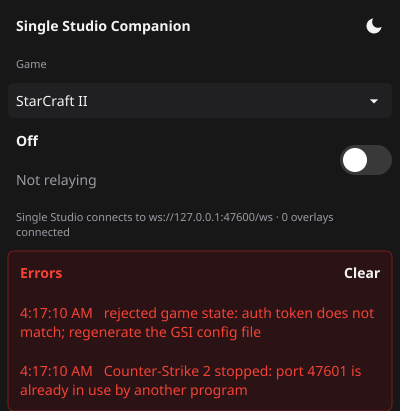
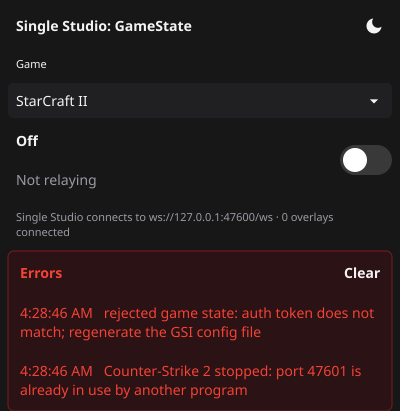
Title the window "Single Studio: GameState"
Claude-Session: https://claude.ai/code/session_01MMxyDdaYfmNBHQgFyDhkwf

diff --git a/internal/ui/panel.go b/internal/ui/panel.go
@@ -20,6 +20,8 @@ import (
 )
 
 const (
+	// Title heads the window and its title bar.
+	Title = "Single Studio: GameState"
 	// Width is the window's starting width.
 	Width = 400
 	// maxShownErrors caps the pane; repeats already fold into one line.
@@ -71,7 +73,7 @@ type Panel struct {
 func NewPanel(a fyne.App, win fyne.Window, ctrl *control.Controller, errs *control.ErrorLog, hub *relay.Hub, relayURL string, dark bool) *Panel {
 	p := &Panel{ctrl: ctrl, errs: errs, hub: hub, relayURL: relayURL, app: a, win: win, dark: dark, do: fyne.Do}
 
-	title := widget.NewLabelWithStyle("Single Studio Companion", fyne.TextAlignLeading, fyne.TextStyle{Bold: true})
+	title := widget.NewLabelWithStyle(Title, fyne.TextAlignLeading, fyne.TextStyle{Bold: true})
 	p.themeBtn = widget.NewButtonWithIcon("", nil, p.toggleTheme)
 	p.themeBtn.Importance = widget.LowImportance
 

diff --git a/internal/ui/panel_test.go b/internal/ui/panel_test.go
@@ -42,7 +42,7 @@ func newFixture(t *testing.T) fixture {
 
 	ctrl := control.New(adapter.Options{Bind: "127.0.0.1", Interval: time.Hour, GSIPort: port, SC2URL: "http://127.0.0.1:1"}, hub, log)
 	t.Cleanup(ctrl.Stop)
-	win := a.NewWindow("Single Studio Companion")
+	win := a.NewWindow(Title)
 	p := NewPanel(a, win, ctrl, errs, hub, "ws://127.0.0.1:47600/ws", true)
 	queue := make(chan func(), 100)
 	p.do = func(fn func()) { queue <- fn }

diff --git a/cmd/companion/window.go b/cmd/companion/window.go
@@ -38,7 +38,7 @@ type window struct {
 func runWindow(ctx context.Context, w window) {
 	a := app.NewWithID(appID)
 	a.SetIcon(fyne.NewStaticResource("Icon.png", iconPNG))
-	win := a.NewWindow("Single Studio Companion")
+	win := a.NewWindow(ui.Title)
 	win.SetMaster()
 
 	p := ui.NewPanel(a, win, w.ctrl, w.errs, w.hub, w.relayURL, w.dark)
